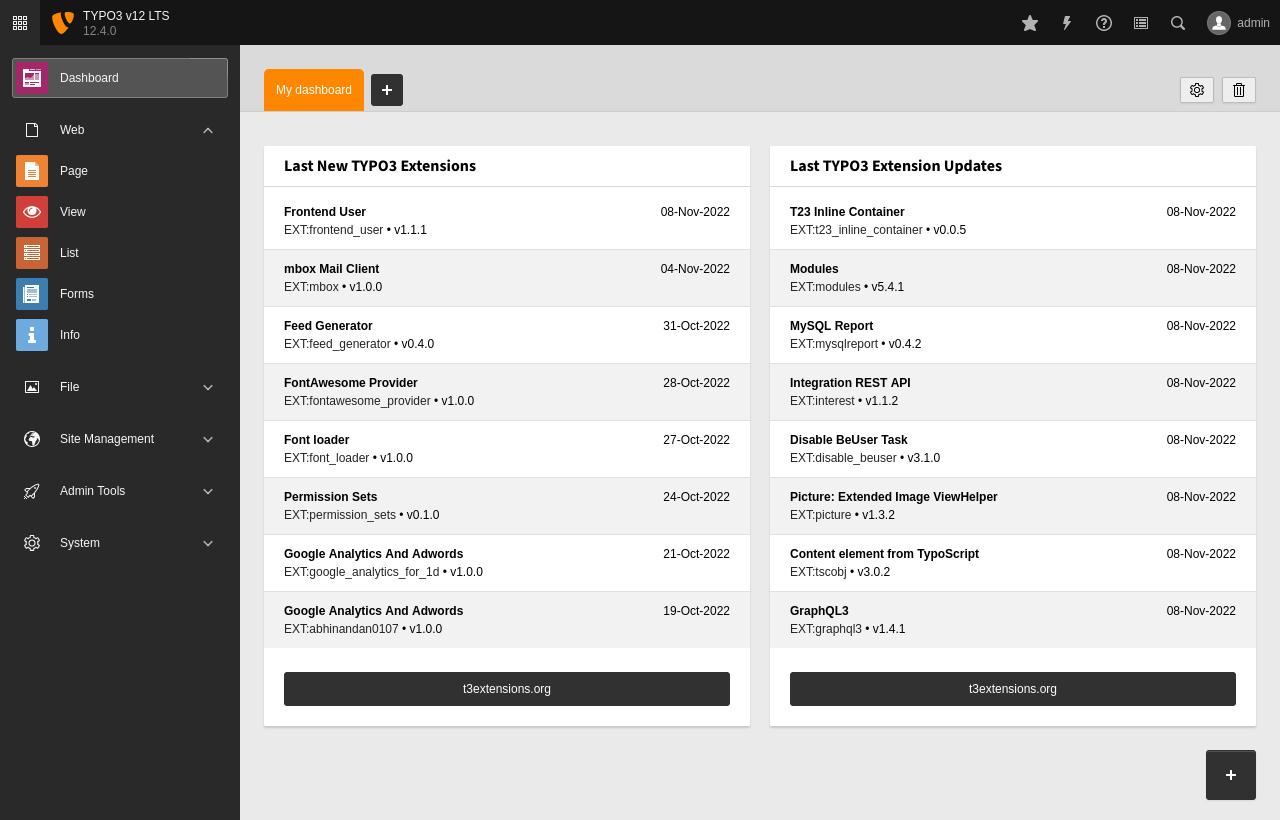
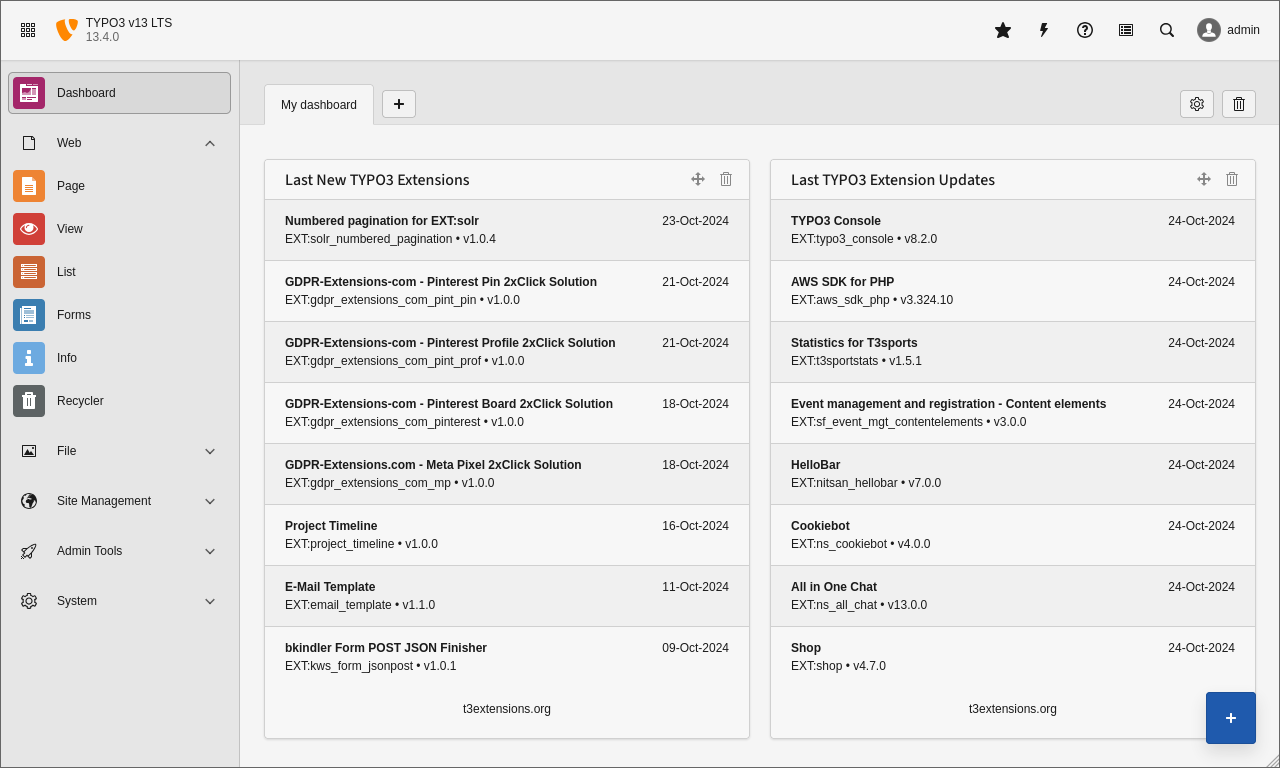
[TASK] Update README.md and screenshot
TYPO3 v13 LTS compatibility added.

diff --git a/README.md b/README.md
@@ -10,9 +10,9 @@ TYPO3 Dashboard widget that displays the most recent TYPO3 extensions published/
 
 ## Requirements
 
-* TYPO3 v12 LTS [get.typo3.org](https://get.typo3.org/version/12)
+* TYPO3 v12 LTS [get.typo3.org](https://get.typo3.org/version/12) and PHP v8.1, v8.2, or v8.3.
+* TYPO3 v13 LTS [get.typo3.org](https://get.typo3.org/version/13) and PHP v8.2, or v8.3.
 * TYPO3 [Dashboard](https://docs.typo3.org/c/typo3/cms-dashboard/main/en-us/) system extension
-* PHP version 8.1, 8.2, or 8.3
 
 ## Installation
 
